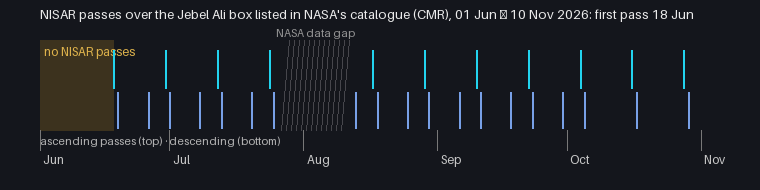
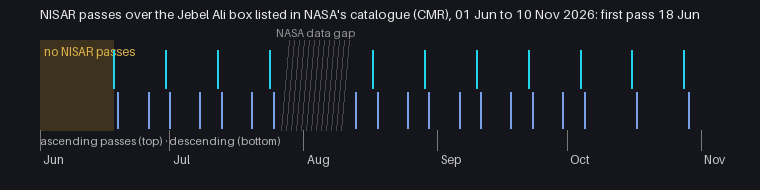
Phase 4: fingerprints match git, trap cards updated
Script fingerprints are now taken with LF line endings so they match the files on GitHub; all numbers files were regenerated with unchanged methods, and trap cards describe what the app now does.

Changed region(s): [[0.6355, 0.0526, 0.9382, 0.1053]]

diff --git a/js/custody.js b/js/custody.js
@@ -25,7 +25,7 @@ export function openCustody(caseInfo, numbers) {
   dialog.innerHTML = `
     <article class="trap-card custody">
       <p class="eyebrow">Chain of custody · ${esc(caseInfo.name)}</p>
-      <h2 class="trap-title">Everything behind this verdict</h2>
+      <h2 class="trap-title" tabindex="-1">Everything behind this verdict</h2>
       <h3>NASA files used</h3>
       <ul class="custody-files">
         ${(p.nasa_files || []).map((f) => `<li><code>${esc(f.file)}</code><br><span>${esc(f.date || f.dates || '')} · ${esc(f.direction || '')} · track ${esc(f.track ?? '')} frame ${esc(f.frame ?? '')} · ${esc(f.processing || '')} ${f.product_version ? '· product ' + esc(f.product_version) : ''}</span></li>`).join('')}
@@ -42,7 +42,7 @@ export function openCustody(caseInfo, numbers) {
       <h3>Software</h3>
       <table class="custody-table">
         ${row('script', `${p.script || ''} v${p.script_version || '?'}`)}
-        ${row('script fingerprint (SHA-256)', p.script_sha256 || '')}
+        ${row('script fingerprint (SHA-256 of the script as stored in git, LF line endings)', p.script_sha256 || '')}
         ${p.helpers_sha256 ? row('helpers fingerprint (SHA-256)', p.helpers_sha256) : ''}
         ${row('numbers generated', numbers.generated)}
       </table>
@@ -59,4 +59,8 @@ export function openCustody(caseInfo, numbers) {
     setTimeout(() => URL.revokeObjectURL(a.href), 1000);
   });
   dialog.showModal();
+  // the browser focuses the first button (at the bottom); start the reader at the top instead
+  dialog.querySelector('.trap-title').focus();
+  dialog.scrollTop = 0;
+  dialog.querySelector('.custody').scrollTop = 0;
 }

diff --git a/tools/process_jebel_ali.py b/tools/process_jebel_ali.py
@@ -45,7 +45,7 @@ import update_results
 
 warnings.filterwarnings("ignore", category=RuntimeWarning)    # all-NaN tiles etc. are handled explicitly
 
-SCRIPT_VERSION = "1.2"   # 1.1: display rule, terrain heights, per-pass medians; 1.2: single-pass cross-checks, NaN-safe JSON (METHOD unchanged)
+SCRIPT_VERSION = "1.2.1"   # 1.2.1: script fingerprints taken with LF line endings (as stored in git); 1.1: display rule, terrain heights, per-pass medians; 1.2: single-pass cross-checks, NaN-safe JSON (METHOD unchanged)
 CASE = "jebel-ali"
 GRID = "/science/LSAR/GCOV/grids/frequencyA"
 DATA_DIR = os.path.join(nio.PROJECT, "data", "gcov")
@@ -112,11 +112,12 @@ def log(*a):
 
 
 def sha256(path):
-    h = hashlib.sha256()
+    """Fingerprint of a script, taken with LF line endings, which is exactly how git stores it.
+    (Windows checks files out with CRLF line endings; without this, the fingerprint made on a
+    Windows laptop would never match the same file on GitHub.) Used by every processing script."""
     with open(path, "rb") as f:
-        for block in iter(lambda: f.read(1 << 20), b""):
-            h.update(block)
-    return h.hexdigest()
+        data = f.read().replace(b"\r\n", b"\n")
+    return hashlib.sha256(data).hexdigest()
 
 
 def font(size):
